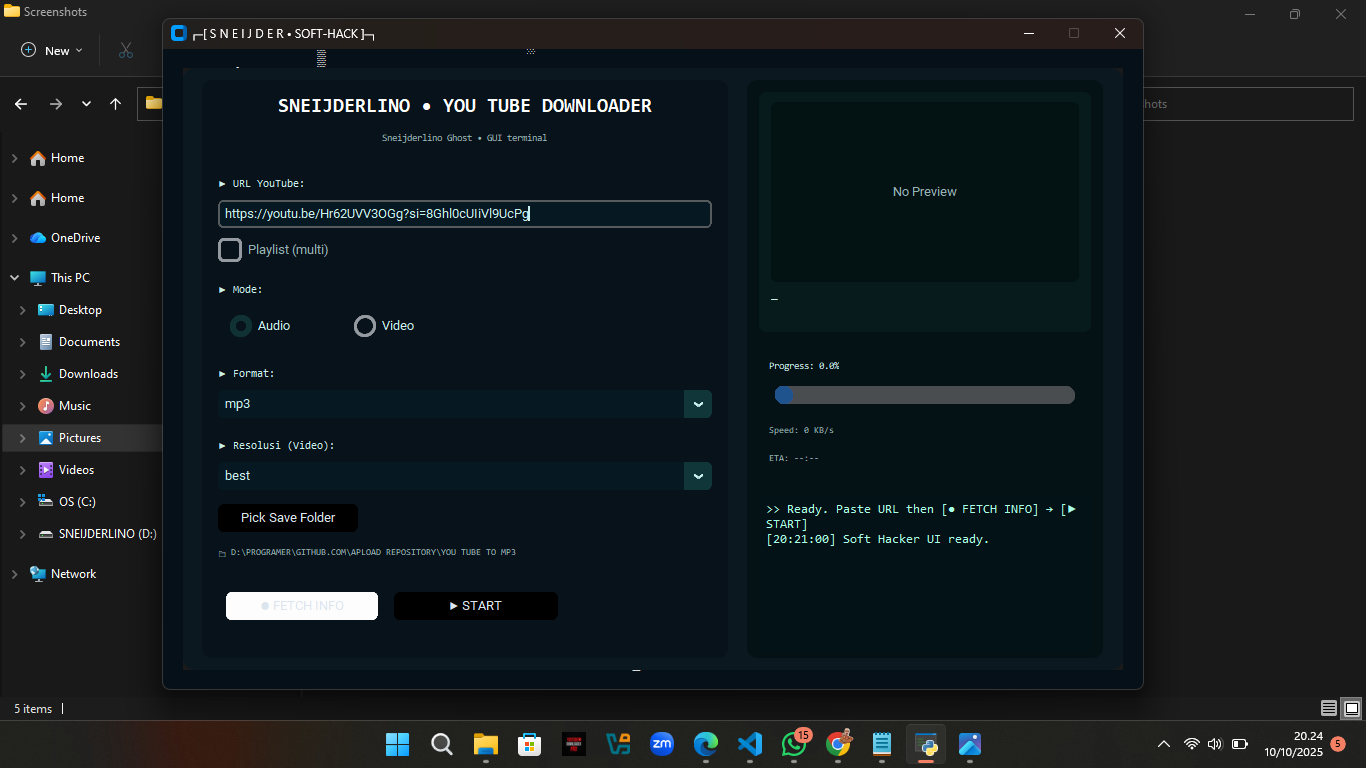
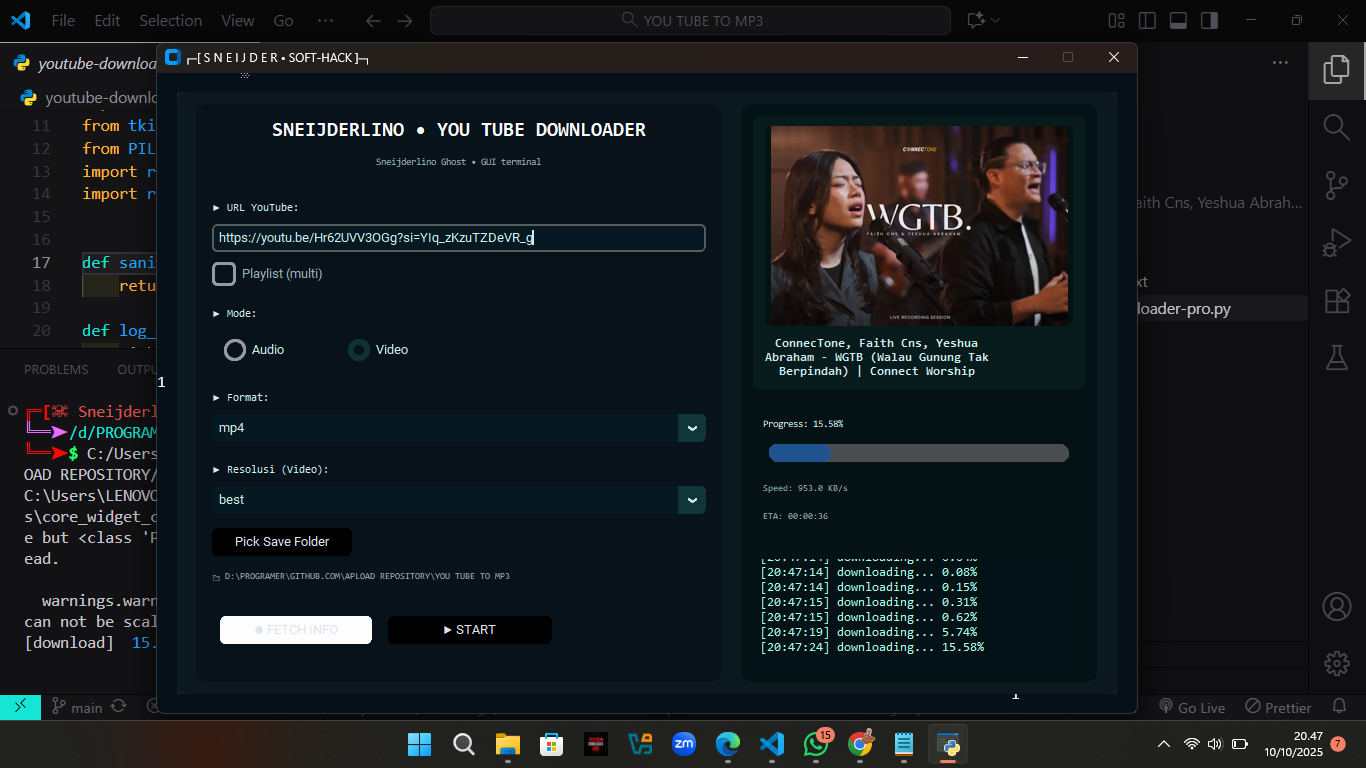
Update: perbaikan fitur

diff --git a/README.md b/README.md
@@ -217,11 +217,18 @@ File akan tersimpan di folder downloads/
 </p>
 
 ---
+
+<p align="center">
+  <img src="/img/demo6.png" alt="Contoh output web_scanner_ghost" width="800"/><br>
+  <em>Program Berjalan:
+</p>
+
+---
+
 <p align="center">
   <img src="/img/finish.png" alt="Contoh output web_scanner_ghost" width="800"/><br>
   <em>Berhasil Mendownlaod Dan mengkonversi ke Format yang Diinginkan:
 </p>
-
 
 ---
 
@@ -234,7 +241,6 @@ File akan tersimpan di folder downloads/
 
 ---
 
-
 <h3 align="center">📜 Lisensi</h3>
 
 <p align="center">
@@ -242,11 +248,7 @@ File akan tersimpan di folder downloads/
   Bebas digunakan, dimodifikasi, dan dibagikan selama mencantumkan kredit.
 </p>
 
-
 ---
-
-
-
 
 <h3 align="center">💬 Dukungan & Kontribusi</h3>
 
@@ -255,7 +257,6 @@ File akan tersimpan di folder downloads/
   Silakan buka <a href="https://github.com/Sneijderlino/youtube-downloader-pro/issues">Issues</a> atau buat <a href="https://github.com/Sneijderlino/youtube-downloader-pro/pulls">Pull Request</a>.<br><br>
   ⭐ Jangan lupa beri bintang jika proyek ini bermanfaat!
 </p>
-
 
 ---
 
